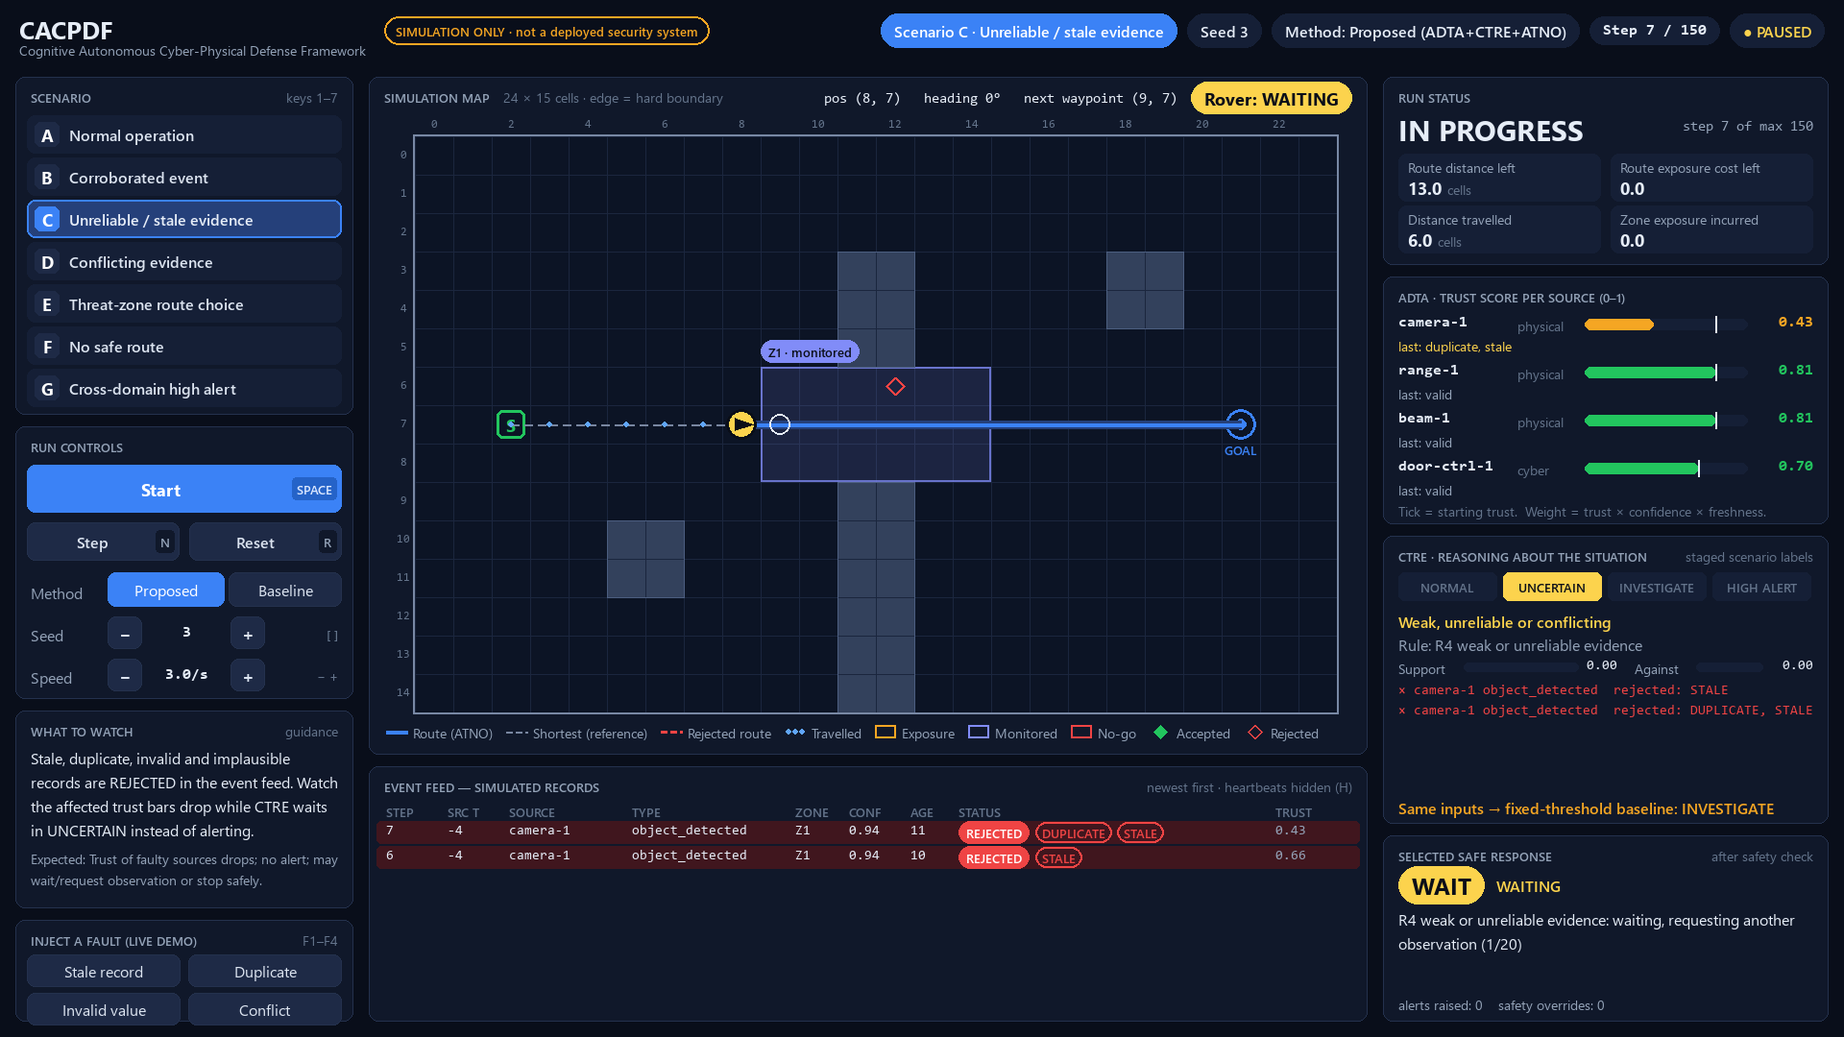
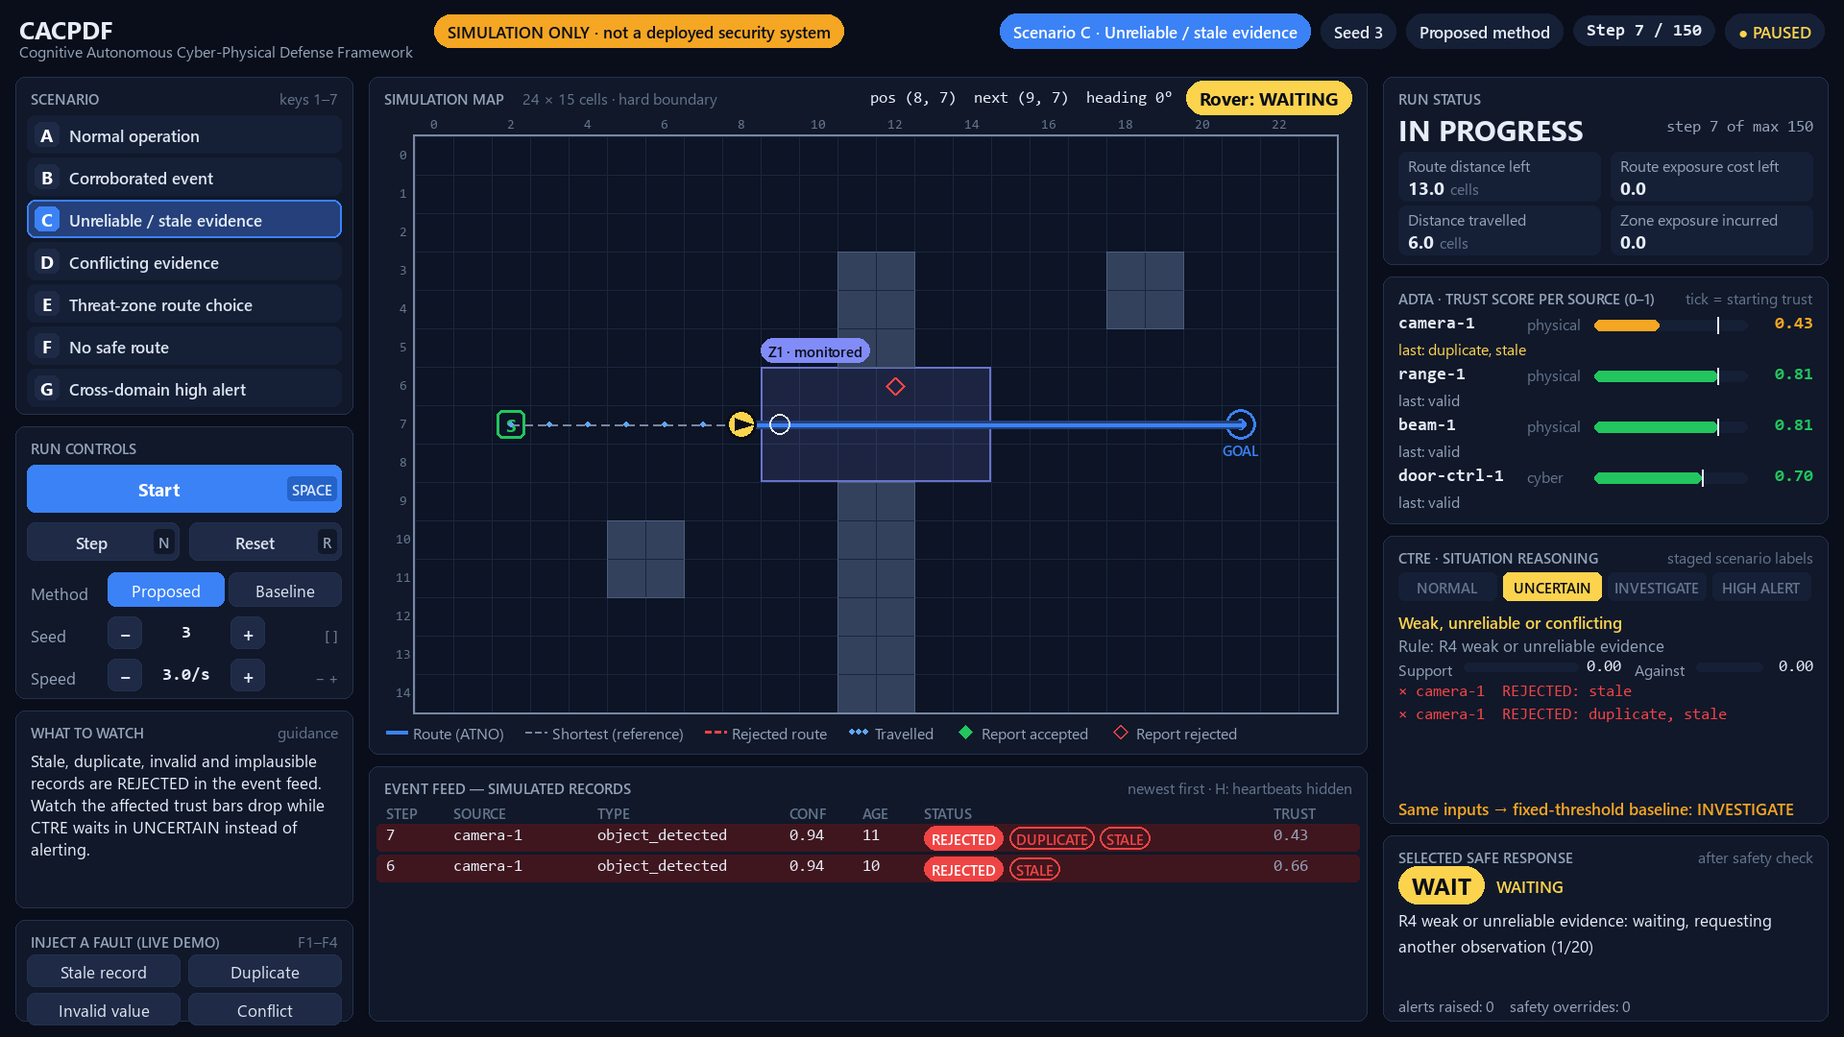
Improve dashboard readability for presentation
Larger secondary text, event feed and CTRE evidence; event feed reduced to
step, source, type, confidence, age, status and trust; plain-language ADTA
reasons (bookkeeping codes stay in the run log); legend limited to route
lines and report markers; filled simulation-only badge. Rendering only;
simulation logic and evaluation results unchanged. README and screenshots
updated.

diff --git a/cacpdf/gui.py b/cacpdf/gui.py
@@ -86,6 +86,45 @@ FLAG_LABEL = {"stale": "STALE", "duplicate": "DUPLICATE", "invalid_value": "INVA
               "implausible": "IMPLAUSIBLE", "delayed": "DELAYED", "missing": "MISSING"}
 
 
+_QUIET_CODES = ("probation(reward scaled)", "rise_capped", "clamped")
+
+
+def readable_reason(raw: str) -> Tuple[str, bool]:
+    """Shorten ADTA reason codes for display; returns (text, is_warning).
+
+    Only wording changes: bookkeeping codes (probation, rise cap, clamp) are left
+    to the run log, and the remaining codes are spelled out.
+    """
+    out, warn = [], False
+    for part in [x.strip() for x in raw.split(", ") if x.strip()]:
+        if part in _QUIET_CODES:
+            continue
+        code, _, arg = part.partition(":")
+        who = arg.split("(")[0]
+        if code == "corroborated":
+            out.append(f"corroborated by {who}")
+        elif code == "disagreement_observed":
+            out.append(f"disagrees with {who} (no penalty)")
+            warn = True
+        elif code == "repeated_disagreement":
+            out.append(f"repeated disagreement with {who} (both penalised)")
+            warn = True
+        elif code == "outvoted_by":
+            out.append(f"contradicted by {who}")
+            warn = True
+        elif part.startswith("missing"):
+            out.append("missing heartbeat")
+            warn = True
+        elif part in ("valid", "initial", "resumed after silence", "no change"):
+            out.append(part)
+        else:   # stale, duplicate, invalid_value, implausible, delayed, SILENT prefix
+            out.append(part.replace("_", " "))
+            warn = True
+    if len(out) > 1 and "valid" in out:
+        out.remove("valid")
+    return (", ".join(out) or raw), warn
+
+
 def _font(names: str, size: int, bold: bool = False):
     win = os.path.join(os.environ.get("WINDIR", "C:/Windows"), "Fonts")
     files = {("segoe", False): "segoeui.ttf", ("segoe", True): "segoeuib.ttf",
@@ -117,13 +156,13 @@ class App:
         self.screen = self.canvas          # kept for callers that read the rendered frame
         self.clock = pygame.time.Clock()
         self.F = {
-            "xs": _font("segoe", 14), "s": _font("segoe", 16), "m": _font("segoe", 18),
-            "l": _font("segoe", 22), "sb": _font("semibold", 16), "sbm": _font("semibold", 18),
-            "b": _font("segoe", 18, True), "bl": _font("segoe", 24, True),
+            "xs": _font("segoe", 16), "s": _font("segoe", 17), "m": _font("segoe", 19),
+            "l": _font("segoe", 22), "sb": _font("semibold", 17), "sbm": _font("semibold", 19),
+            "b": _font("segoe", 19, True), "bl": _font("segoe", 24, True),
             "bxl": _font("segoe", 30, True), "title": _font("segoe", 26, True),
-            "cap": _font("semibold", 13), "mono": _font("mono", 15),
-            "monos": _font("mono", 14), "monob": _font("mono", 16, True),
-            "axis": _font("mono", 12),
+            "cap": _font("semibold", 15), "mono": _font("mono", 17),
+            "monos": _font("mono", 17), "monob": _font("mono", 18, True),
+            "axis": _font("mono", 14),
         }
         self._tcache: Dict[tuple, pygame.Surface] = {}
         self.config = config
@@ -382,8 +421,8 @@ class App:
         self.text("CACPDF", (20, 12), "title", C["text"])
         self.text("Cognitive Autonomous Cyber-Physical Defense Framework", (20, 42), "xs",
                   C["dim"])
-        self.pill("SIMULATION ONLY · not a deployed security system", (400, 32), C["amber"],
-                  C["amber"], "cap", (12, 6), "midleft", outline=True)
+        self.pill("SIMULATION ONLY · not a deployed security system", (452, 32), C["amber"],
+                  (10, 14, 24), "sb", (14, 6), "midleft")
         if not sim:
             return
         x = CW - 20
@@ -396,8 +435,7 @@ class App:
         r = self.pill(f"Step {sim.t} / {sim.cfg.sim.max_steps}", (x, 32), C["panel2"],
                       C["text"], "monob", (14, 7), "midright")
         x = r.left - 10
-        mlabel = "Method: Proposed (ADTA+CTRE+ATNO)" if sim.method == "proposed" else \
-            "Method: Baseline (fixed threshold)"
+        mlabel = "Proposed method" if sim.method == "proposed" else "Baseline method"
         r = self.pill(mlabel, (x, 32), C["panel2"], C["text"], "sb", (14, 7), "midright")
         x = r.left - 10
         r = self.pill(f"Seed {sim.seed}", (x, 32), C["panel2"], C["text"], "sb", (14, 7),
@@ -464,10 +502,8 @@ class App:
         # what to watch
         p = self.panel((x, 740, w, 206), "What to watch", "guidance")
         if sim:
-            y = self.para(WATCH.get(sim.scenario.key, sim.scenario.description),
-                          (p.x + 16, p.y + 38), w - 32, "s", C["text"], 5)
-            self.para("Expected: " + sim.scenario.expected_text, (p.x + 16, y + 6), w - 32,
-                      "xs", C["dim"], 3)
+            self.para(WATCH.get(sim.scenario.key, sim.scenario.description),
+                      (p.x + 16, p.y + 40), w - 32, "s", C["text"], 7, lh=23)
         # inject faults
         p = self.panel((x, 958, w, CH - 16 - 958), "Inject a fault (live demo)", "F1–F4")
         bw = (w - 24 - 8) // 2
@@ -503,7 +539,7 @@ class App:
         ox, oy, mw, mh = self.map_geom()
         p = self.panel((CENTER_X, 80, CENTER_W, 706))
         self.text("SIMULATION MAP", (p.x + 16, p.y + 12), "cap", C["dim"])
-        self.text(f"{w.width} × {w.height} cells · edge = hard boundary", (p.x + 140, p.y + 11),
+        self.text(f"{w.width} × {w.height} cells · hard boundary", (p.x + 160, p.y + 11),
                   "xs", C["faint"])
         # rover state + waypoint, top-right of the map panel
         rv = sim.rover
@@ -511,9 +547,8 @@ class App:
         mcol = MODE_COLOR.get(rv.mode, C["dim"])
         r = self.pill(f"Rover: {rv.mode}", (p.right - 16, p.y + 22), mcol, (10, 14, 24), "b",
                       (14, 5), "midright")
-        self.text(f"pos {rv.pos}   heading {rv.heading:.0f}°   next waypoint "
-                  f"{nxt if nxt else '—'}", (r.left - 14, p.y + 22), "mono", C["text"],
-                  "midright")
+        self.text(f"pos {rv.pos}  next {nxt if nxt else '—'}  heading {rv.heading:.0f}°",
+                  (r.left - 14, p.y + 22), "mono", C["text"], "midright")
         # axis labels
         for x in range(w.width):
             if x % 2 == 0:
@@ -669,10 +704,10 @@ class App:
         ly = p.bottom - 34
         x = p.x + 18
         planner = "ATNO" if sim.method == "proposed" else "obstacle-only"
+        # zone types are labelled on the map itself, so the legend covers lines and markers
         items = [("route", f"Route ({planner})"), ("ref", "Shortest (reference)"),
                  ("rej", "Rejected route"), ("trail", "Travelled"),
-                 ("zone_e", "Exposure"), ("zone_m", "Monitored"),
-                 ("nogo", "No-go"), ("acc", "Accepted"), ("rejr", "Rejected")]
+                 ("acc", "Report accepted"), ("rejr", "Report rejected")]
         for key, lab in items:
             cy = ly + 10
             if key == "route":
@@ -694,25 +729,24 @@ class App:
                 pygame.draw.polygon(cv, C["red"], [(x + 11, cy - 7), (x + 18, cy),
                                                    (x + 11, cy + 7), (x + 4, cy)], 2)
             x += 28
-            x = self.text(lab, (x, ly + 1), "xs", C["dim"]).right + 14
+            x = self.text(lab, (x, ly), "xs", C["dim"]).right + 22
 
     # ------------------------------------------------------------ event feed
     def draw_feed(self):
         sim = self.sim
-        note = "newest first · heartbeats " + ("shown" if self.show_heartbeats else "hidden")
-        note += " (H)"
+        note = "newest first · H: heartbeats " + ("shown" if self.show_heartbeats else "hidden")
         if sim.method == "baseline":
-            note = "status = fusion checks, which the baseline does NOT apply · " + note
+            note = "status = fusion checks (not used by baseline) · " + note
         p = self.panel((CENTER_X, 798, CENTER_W, CH - 16 - 798), "Event feed — simulated records",
                        note)
-        cols = [("STEP", 64), ("SRC T", 64), ("SOURCE", 128), ("TYPE", 170), ("ZONE", 56),
-                ("CONF", 64), ("AGE", 50), ("STATUS", 330), ("TRUST", 70)]
+        cols = [("STEP", 70), ("SOURCE", 150), ("TYPE", 200), ("CONF", 76), ("AGE", 64),
+                ("STATUS", 364), ("TRUST", 70)]
         x0, y = p.x + 18, p.y + 38
         x = x0
         for name, wd in cols:
             self.text(name, (x, y), "cap", C["faint"])
             x += wd
-        y += 22
+        y += 26
         rows = [o for o in sim.recent_obs
                 if self.show_heartbeats or o["event_type"] != "status" or o["flags"]]
         if not rows:
@@ -724,16 +758,15 @@ class App:
                 msg = "No zone reports yet. Status heartbeats are hidden (press H to show)."
             self.text(msg, (p.centerx, p.y + 130), "m", C["faint"], "center")
             return
-        row_h = 26
+        row_h = 32
         max_rows = (p.bottom - 10 - y) // row_h
         for o in rows[:max_rows]:
             rejected = not o["accepted"]
             missing = o["event_type"] == "heartbeat_timeout"
             if rejected and not missing:
-                pygame.draw.rect(self.canvas, (64, 22, 30), (p.x + 8, y - 3, p.w - 16, row_h - 2),
+                pygame.draw.rect(self.canvas, (64, 22, 30), (p.x + 8, y - 4, p.w - 16, row_h - 3),
                                  border_radius=5)
-            vals = [str(o["received_step"]), str(o["step"]), o["source_id"],
-                    o["event_type"], o["zone_id"] or "—",
+            vals = [str(o["received_step"]), o["source_id"], o["event_type"],
                     "—" if o["confidence"] is None else f"{o['confidence']:.2f}",
                     str(o["age_at_arrival"])]
             x = x0
@@ -743,23 +776,22 @@ class App:
             # status badges
             bx = x
             if missing:
-                bx = self.pill("MISSING", (bx, y + 9), C["amber"], (10, 14, 24), "cap", (8, 3),
+                bx = self.pill("MISSING", (bx, y + 11), C["amber"], (10, 14, 24), "cap", (8, 3),
                                "midleft").right + 8
-                self.text("no message within timeout; not treated as 'clear'", (bx, y), "xs",
-                          C["amber_light"])
+                self.text("silent — not treated as 'clear'", (bx, y), "xs", C["amber_light"])
             elif rejected:
-                bx = self.pill("REJECTED", (bx, y + 9), C["red"], (255, 255, 255), "cap",
+                bx = self.pill("REJECTED", (bx, y + 11), C["red"], (255, 255, 255), "cap",
                                (8, 3), "midleft").right + 6
                 for f in o["flags"]:
-                    bx = self.pill(FLAG_LABEL.get(f, f.upper()), (bx, y + 9), C["red"], C["red"],
+                    bx = self.pill(FLAG_LABEL.get(f, f.upper()), (bx, y + 11), C["red"], C["red"],
                                    "cap", (7, 2), "midleft", outline=True).right + 5
             else:
-                bx = self.pill("ACCEPTED", (bx, y + 9), C["green"], (10, 14, 24), "cap", (8, 3),
+                bx = self.pill("ACCEPTED", (bx, y + 11), C["green"], (10, 14, 24), "cap", (8, 3),
                                "midleft").right + 6
                 for f in o["flags"]:
-                    bx = self.pill(FLAG_LABEL.get(f, f.upper()), (bx, y + 9), C["amber"],
+                    bx = self.pill(FLAG_LABEL.get(f, f.upper()), (bx, y + 11), C["amber"],
                                    C["amber"], "cap", (7, 2), "midleft", outline=True).right + 5
-            x += cols[7][1]
+            x += cols[5][1]
             tr = o.get("trust_after")
             if tr not in (None, ""):
                 self.text(f"{tr:.2f}", (x, y), "monos", C["dim"])
@@ -795,42 +827,40 @@ class App:
         tw = (RIGHT_W - 32 - 10) // 2
         for i, (lab, val, unit) in enumerate(tiles):
             tx = p.x + 16 + (i % 2) * (tw + 10)
-            ty = p.y + 80 + (i // 2) * 54
-            pygame.draw.rect(self.canvas, C["panel2"], (tx, ty, tw, 50), border_radius=8)
-            self.text(lab, (tx + 10, ty + 4), "xs", C["dim"])
-            r = self.text(val, (tx + 10, ty + 23), "b", C["text"])
+            ty = p.y + 78 + (i // 2) * 56
+            pygame.draw.rect(self.canvas, C["panel2"], (tx, ty, tw, 52), border_radius=8)
+            self.text(lab, (tx + 10, ty + 3), "xs", C["dim"])
+            r = self.text(val, (tx + 10, ty + 24), "b", C["text"])
             if unit and val != "—":
                 self.text(unit, (r.right + 6, ty + 27), "xs", C["faint"])
 
     def draw_trust(self):
         sim = self.sim
-        note = "" if sim.method == "proposed" else "not used by baseline"
+        note = "tick = starting trust" if sim.method == "proposed" else "not used by baseline"
         p = self.panel((RIGHT_X, 288, RIGHT_W, 258), "ADTA · trust score per source (0–1)", note)
         y = p.y + 40
         for s, meta in SOURCES.items():
             t = sim.adta.trust[s]
             init = sim.adta.initial[s]
             col = C["green"] if t >= 0.6 else (C["amber"] if t >= 0.35 else C["red"])
-            self.text(s, (p.x + 16, y), "monob", C["text"])
-            self.text(meta["type"], (p.x + 140, y + 1), "xs", C["faint"])
-            self.bar((p.x + 210, y + 4, 170, 12), t, col, init)
+            nr = self.text(s, (p.x + 16, y), "monob", C["text"])
+            self.text(meta["type"], (p.x + 150, nr.centery), "xs", C["faint"], "midleft")
+            self.bar((p.x + 220, y + 5, 160, 12), t, col, init)
             self.text(f"{t:.2f}", (p.right - 16, y), "monob", col, "topright")
             reason = sim.adta.last_reason.get(s, "")
             if s in sim.fusion.missing:
                 reason = "SILENT (missing) · " + reason
-            rcol = C["dim"] if reason in ("initial", "valid") or reason.startswith("valid") \
-                else C["amber_light"]
-            self.text(self.fit("last: " + reason, "xs", RIGHT_W - 48), (p.x + 16, y + 22), "xs",
+            reason, warn = readable_reason(reason)
+            rcol = C["amber_light"] if warn or s in sim.fusion.missing else C["dim"]
+            self.text(self.fit("last: " + reason, "xs", RIGHT_W - 32), (p.x + 16, y + 24), "xs",
                       rcol)
-            y += 50
-        self.text("Tick = starting trust.  Weight = trust × confidence × freshness.", (p.x + 16,
-                  p.bottom - 24), "xs", C["faint"])
+            y += 53
 
     def draw_ctre(self):
         sim = self.sim
         a = sim.assessment
-        title = "CTRE · reasoning about the situation" if sim.method == "proposed" else \
-            "Baseline · fixed confidence threshold"
+        title = "CTRE · situation reasoning" if sim.method == "proposed" else \
+            "Baseline · fixed threshold"
         p = self.panel((RIGHT_X, 558, RIGHT_W, 300), title, "staged scenario labels")
         state = a.state if a else None
         # state ladder
@@ -869,25 +899,25 @@ class App:
         lines = []
         for e in a.supporting:
             if "weight" in e:
-                lines.append((C["green"], f"+ {e['source_id']} {e['event_type']}  w {e['weight']:.2f}"))
+                lines.append((C["green"], f"+ {e['source_id']}  {e['event_type']}  w {e['weight']:.2f}"))
             else:
                 lines.append((C["green"], f"+ {e['source_id']}  conf {e['confidence']:.2f}"))
         for e in a.conflicting:
-            lines.append((C["amber"], f"− {e['source_id']} {e['event_type']}  w {e['weight']:.2f}"
-                                      "  (conflicts)"))
+            lines.append((C["amber"], f"− {e['source_id']}  {e['event_type']}  w {e['weight']:.2f}"
+                                      "  conflicts"))
         for e in a.rejected:
-            lines.append((C["red"], f"× {e['source_id']} {e['event_type']}  rejected: "
-                                    f"{', '.join(FLAG_LABEL.get(f, f) for f in e['flags'])}"))
+            flags = ", ".join(FLAG_LABEL.get(f, f).lower() for f in e["flags"])
+            lines.append((C["red"], f"× {e['source_id']}  REJECTED: {flags}"))
         for s in a.missing:
-            lines.append((C["amber_light"], f"? {s} silent — coverage gap, not 'clear'"))
+            lines.append((C["amber_light"], f"? {s} silent (not treated as clear)"))
         if a.pending:
-            lines.insert(0, (C["dim"], f"Persistence filter: holding {a.state}, raw {a.pending}"))
+            lines.insert(0, (C["dim"], f"Holding {a.state}: raw {a.pending}"))
         if not lines:
             lines = [(C["faint"], "No zone evidence in the current window.")]
-        max_lines = (p.bottom - 40 - y) // 21
+        max_lines = (p.bottom - 40 - y) // 24
         for col, ln in lines[:max_lines]:
             self.text(self.fit(ln, "monos", RIGHT_W - 32), (p.x + 16, y), "monos", col)
-            y += 21
+            y += 24
         if len(lines) > max_lines:
             self.text(f"+{len(lines) - max_lines} more in the run log", (p.x + 16, y), "xs",
                       C["faint"])
@@ -904,10 +934,9 @@ class App:
         d = sim.decision
         if not d:
             self.text("No action yet.", (p.x + 16, p.y + 44), "l", C["faint"])
-            self.text("Allowed: continue · wait · investigate from a safe point · reroute ·",
-                      (p.x + 16, p.y + 84), "xs", C["dim"])
-            self.text("stop with alert · safe stop. No pursuit or interception exists.",
-                      (p.x + 16, p.y + 104), "xs", C["dim"])
+            self.para("Allowed: continue · wait · investigate from a safe point · reroute · "
+                      "stop with alert · safe stop. No pursuit or interception exists.",
+                      (p.x + 16, p.y + 84), RIGHT_W - 32, "xs", C["dim"], 3)
             return
         col = ACTION_COLOR.get(d.action, C["text"])
         r = self.pill(d.action.replace("_", " "), (p.x + 16, p.y + 52), col, (10, 14, 24), "bl",

diff --git a/README.md b/README.md
@@ -62,18 +62,18 @@ fullscreen. Every value on screen is read from the running simulation.
 
 | Area | What it shows |
 |---|---|
-| **Top bar** | Current scenario, seed, method, step counter and run status (READY / RUNNING / PAUSED / DONE). A banner on the map confirms every scenario load, reset, method change and seed change. |
+| **Top bar** | A filled amber "Simulation only" badge, plus current scenario, seed, method, step counter and run status (READY / RUNNING / PAUSED / DONE). A banner on the map confirms every scenario load, reset, method change and seed change. |
 | **Left: Scenario** | Scenarios A–G as a list. The selected one is highlighted. |
 | **Left: Run controls** | Start/Pause, Step, Reset, a Proposed/Baseline method switch, seed − / + and speed − / +. Each control shows its keyboard key. |
-| **Left: What to watch** | A short note on what the audience should notice in this scenario, plus its pre-written expected behaviour. This is guidance text, not data. |
+| **Left: What to watch** | A short note on what the audience should notice in this scenario. This is guidance text, not data. The pre-written expected behaviour is checked in the response panel when the run ends. |
 | **Left: Inject a fault** | Stale record, duplicate, invalid value or conflict, injected into the live run. The run is then marked as manually injected. |
 | **Centre: Map** | Grid with axis labels and a hard-boundary frame, plus obstacles, start `S`, `GOAL`, zone Z1 and its status tag. |
 | **Map: Rover** | Rover with heading arrow, next-waypoint ring, mode, position and heading. |
 | **Map: Routes** | Blue line: planned route. Dashed grey line: the obstacle-only shortest path, for reference. Dashed red line: a rejected unsafe route. Dots: cells travelled. |
-| **Map: Reports and overlays** | Markers for recent reports (green = accepted, red outline = rejected). The legend sits under the map. Overlays show ready, GOAL REACHED and SAFE STOP with the reason. |
-| **Centre: Event feed** | Each simulated record with arrival step, source step, source, type, zone, confidence, age and the source's trust after the update. Rejected rows are tinted red with STALE / DUPLICATE / INVALID / IMPLAUSIBLE badges; delayed and missing records get amber badges. |
+| **Map: Reports and overlays** | Markers for recent reports (green = accepted, red outline = rejected). The legend under the map covers route lines and report markers; zone types are labelled on the map itself. Overlays show ready, GOAL REACHED and SAFE STOP with the reason. |
+| **Centre: Event feed** | Each simulated record with arrival step, source, type, confidence, age at arrival (in steps) and the source's trust after the update. The source timestamp and zone are in the run log. Rejected rows are tinted red with STALE / DUPLICATE / INVALID / IMPLAUSIBLE badges; delayed and missing records get amber badges. |
 | **Right: Run status** | Outcome, plus route distance and route exposure cost as separate values (remaining, or planned before the first step). Also distance travelled and zone exposure incurred. |
-| **Right: ADTA** | One 0–1 trust bar per source. The tick marks starting trust. The last update reason turns amber when it is not a plain "valid". |
+| **Right: ADTA** | One 0–1 trust bar per source. The tick marks starting trust. The last update reason is shown in plain words (for example "disagrees with range-1 (no penalty)") and turns amber for a penalty or a disagreement. Bookkeeping codes such as the probation and rise cap appear only in the run log. |
 | **Right: CTRE** | State ladder, a plain-language meaning, the rule that fired, and support vs against scores. The evidence list marks supporting (+), conflicting (−), rejected (×) and silent (?) sources. It also shows what the other method decides on the same inputs. |
 | **Right: Selected safe response** | The action after the safety check, its reason, any alert or safety override, and at the end whether the outcome matched the scenario's expected behaviour. |
 
